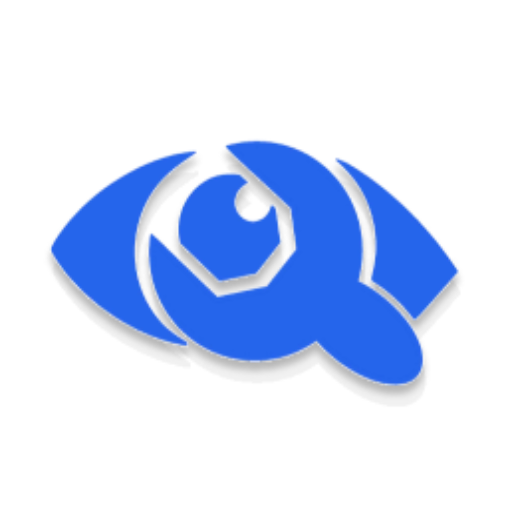
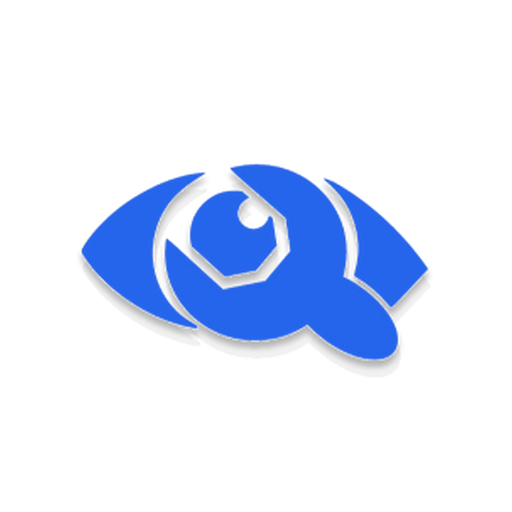
fix pwa v.3

Changed region(s): [[0.0938, 0.25, 0.9062, 0.7812]]

diff --git a/IRRIS_mobile/vite.config.js b/IRRIS_mobile/vite.config.js
@@ -16,14 +16,22 @@ export default defineConfig({
         display: 'standalone',
         icons: [
           {
+            src: "icon_192.png",
+            type: "image/png",
+            sizes: "64x64 32x32 24x24 16x16",
+            purpose: "maskable"
+          },
+          {
             src: 'icon_192.png',
             sizes: '192x192',
             type: 'image/png',
+            purpose: 'maskable'
           },
           {
             src: 'icon_512.png',
             type: 'image/png',
             sizes: '512x512',
+            purpose: 'maskable'
           },
         ],
       },

diff --git a/IRRIS_mobile/dev-dist/sw.js b/IRRIS_mobile/dev-dist/sw.js
@@ -82,7 +82,7 @@ define(['./workbox-5357ef54'], (function (workbox) { 'use strict';
     "revision": "3ca0b8505b4bec776b69afdba2768812"
   }, {
     "url": "index.html",
-    "revision": "0.2hmjst2bii8"
+    "revision": "0.prru4kgbet"
   }], {});
   workbox.cleanupOutdatedCaches();
   workbox.registerRoute(new workbox.NavigationRoute(workbox.createHandlerBoundToURL("index.html"), {
